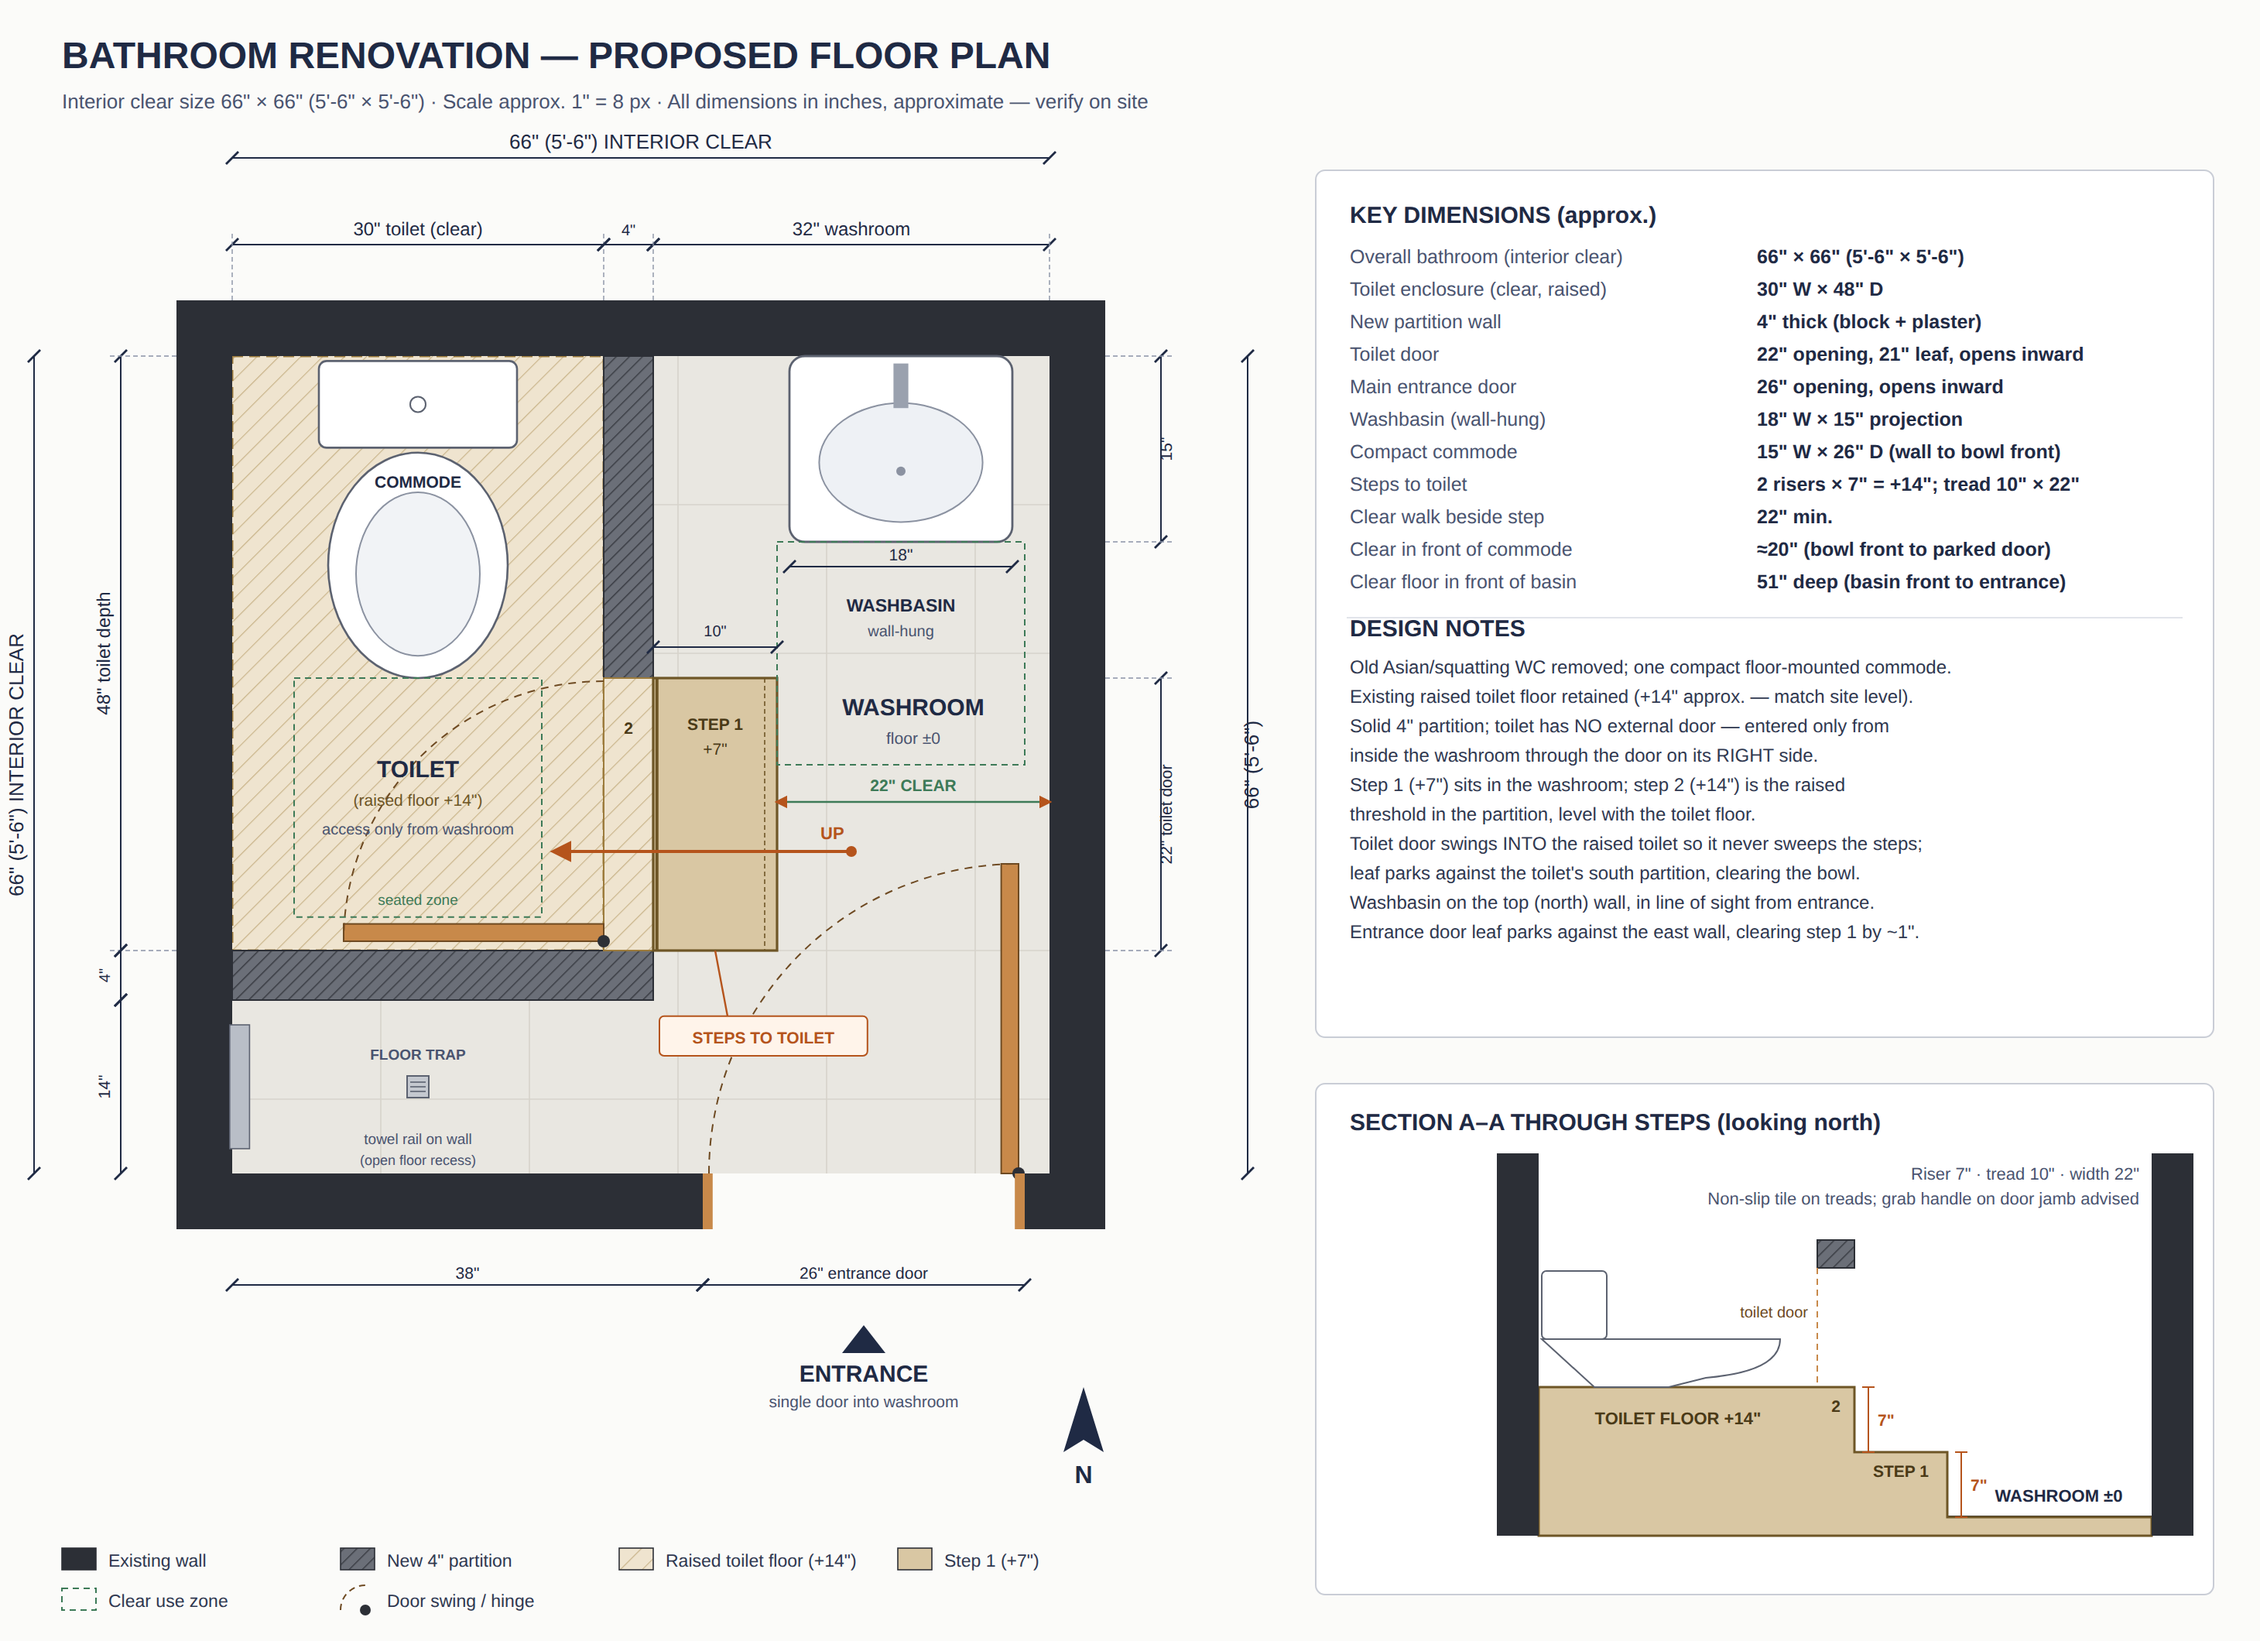
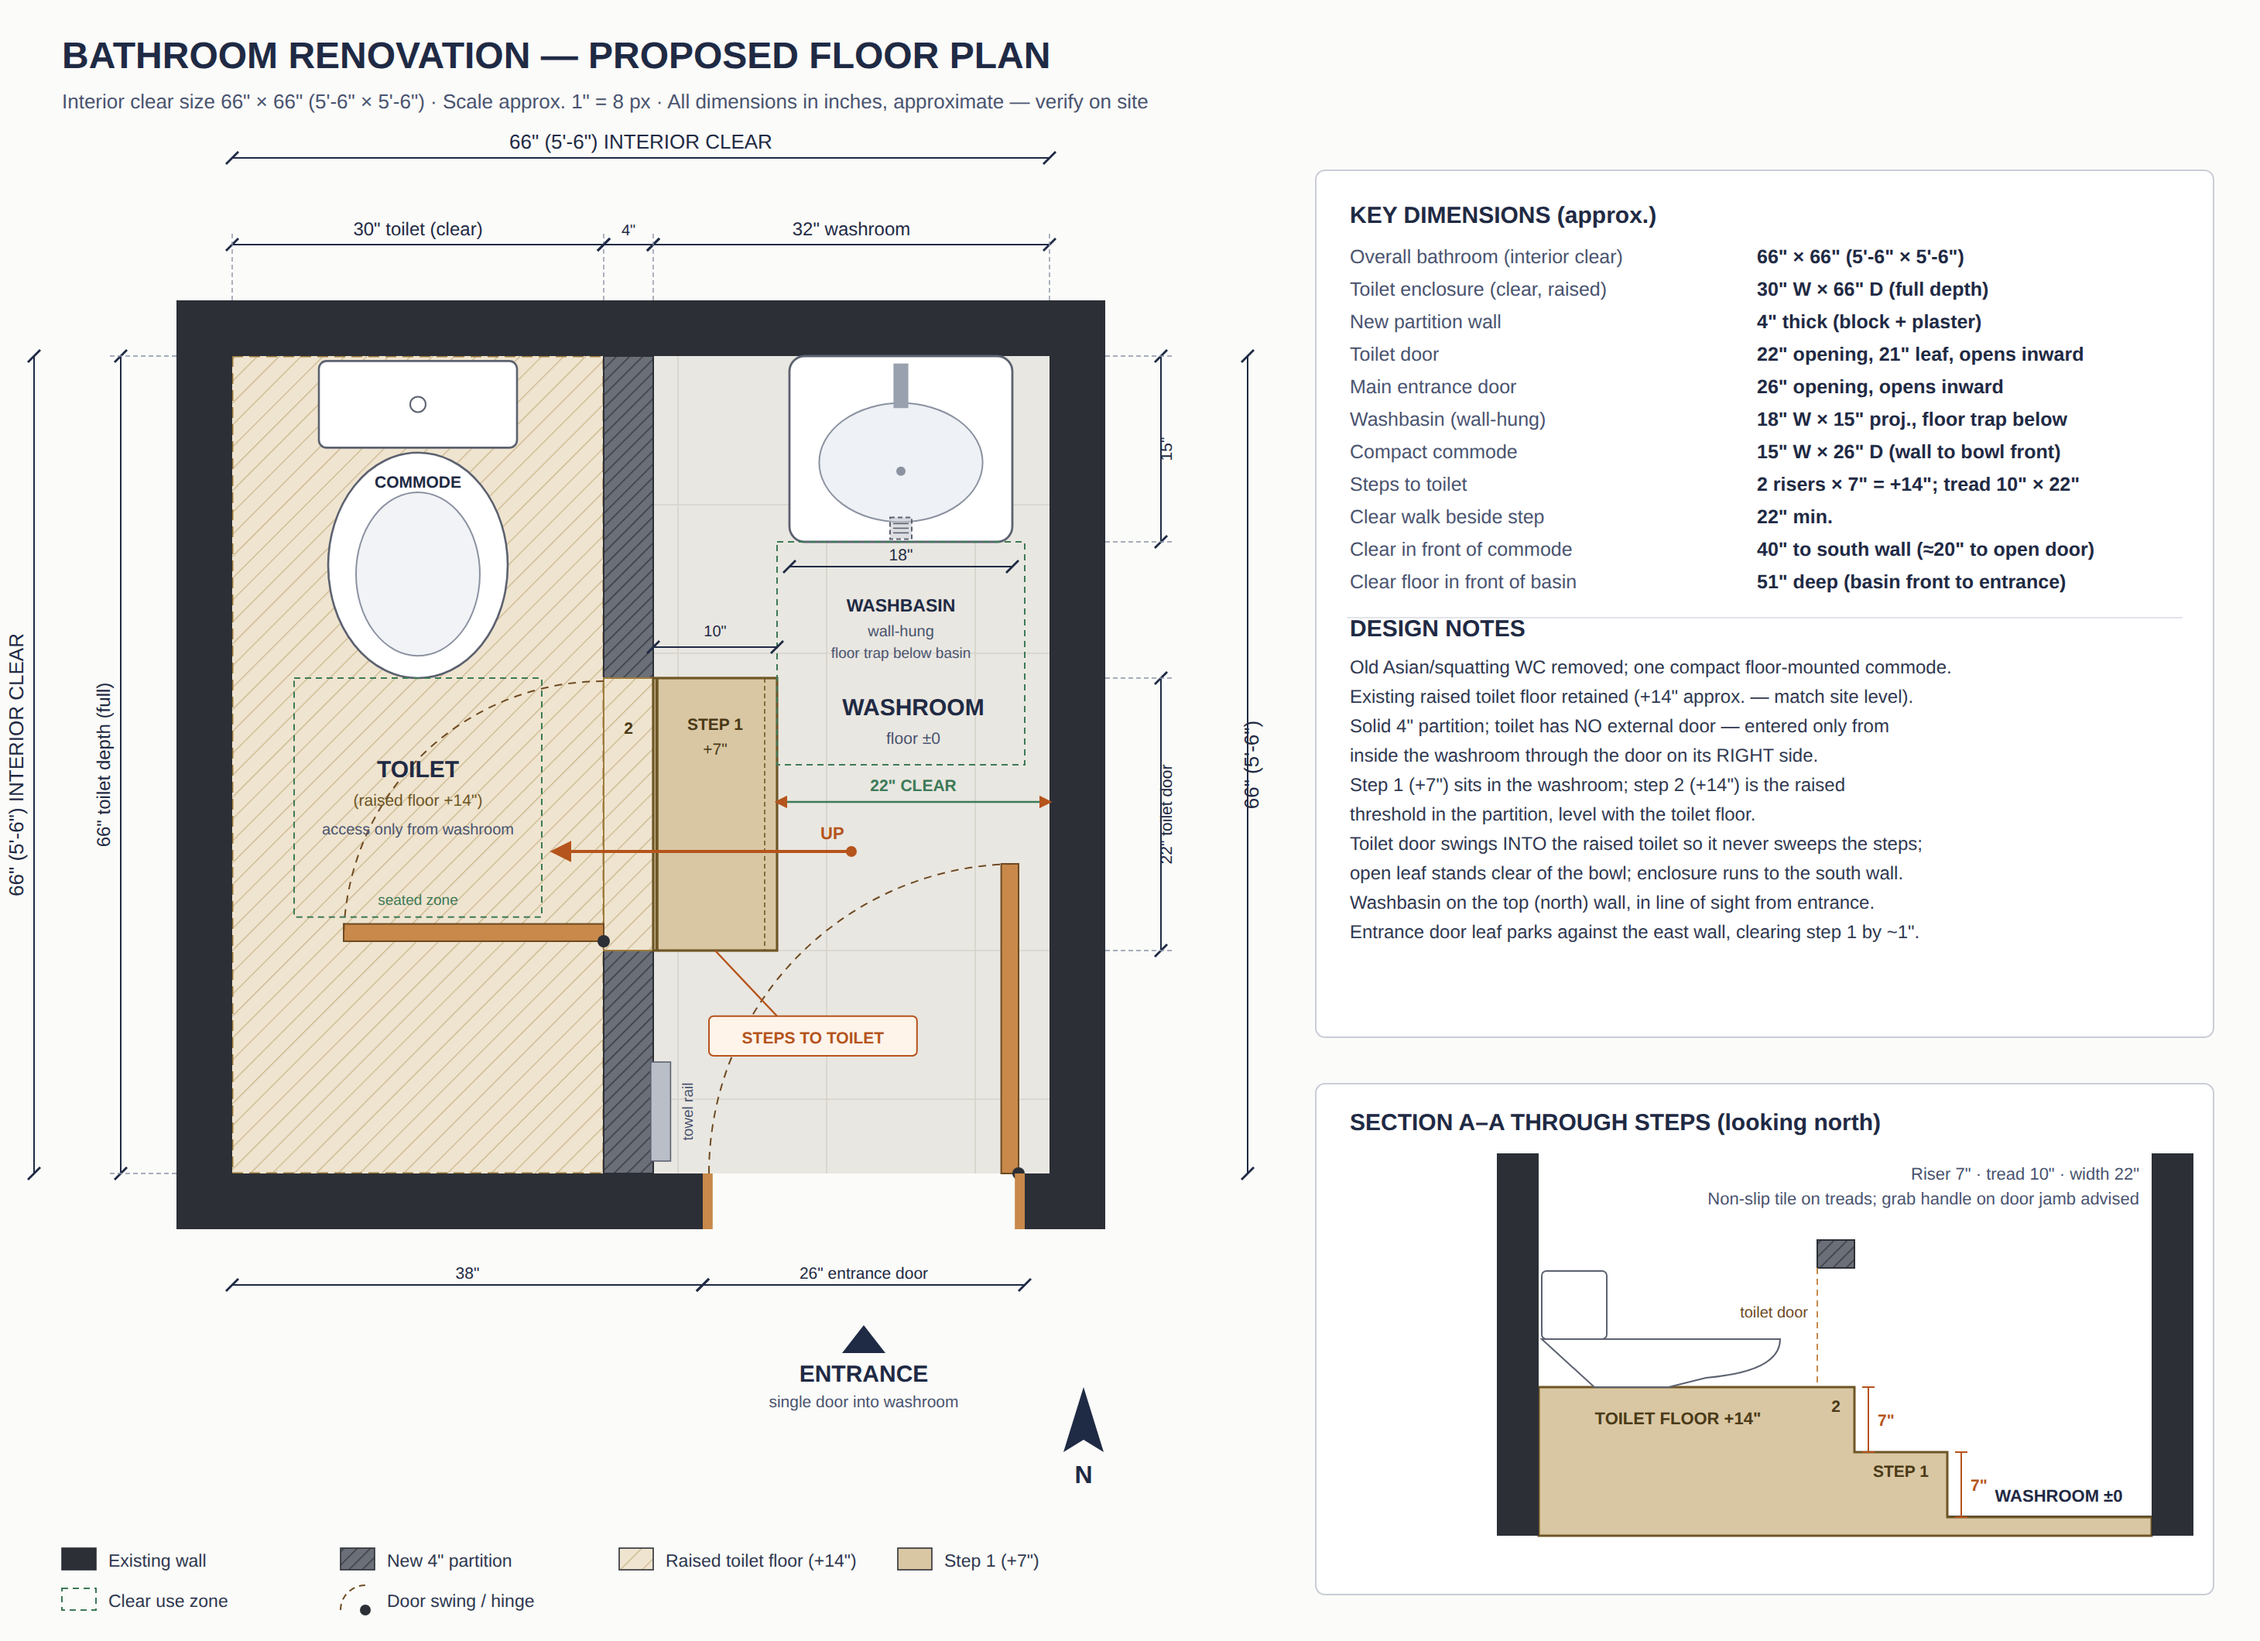
Extend toilet enclosure to south wall; move floor trap under basin
Partition now runs the full 66 in depth, so the raised toilet floor is
30 x 66 in and the old SW floor recess is gone. Floor trap sits below the
wall-hung basin; towel rail moves to the partition's washroom face.

Claude-Session: https://claude.ai/code/session_01BtCeAPLnTzEFmDXFFXHhhg

diff --git a/bathroom-floor-plan/generate_plan.py b/bathroom-floor-plan/generate_plan.py
@@ -11,8 +11,8 @@ EXT = 4.5          # existing outer wall thickness (drawn outside the 66" room)
 PART = 4.0         # new partition thickness
 ROOM = 66.0
 
-# Toilet enclosure (clear inside): x 0..30, y 0..48
-TW, TD = 30.0, 48.0
+# Toilet enclosure (clear inside): x 0..30, full depth to the south wall
+TW, TD = 30.0, 66.0
 # Toilet door opening in vertical partition (x 30..34)
 TDOOR_Y0, TDOOR_Y1 = 26.0, 48.0          # 22" opening
 TLEAF = 21.0
@@ -109,7 +109,7 @@ rect(EDOOR_X1, ROOM, ROOM, ROOM + EXT, **wall)               # south, right of d
 # ---------- new partition walls ----------
 pw = dict(fill="url(#partition)", stroke="#2c2f36", stroke_width=1)
 rect(TW, 0, TW + PART, TDOOR_Y0, **pw)                       # vertical, above toilet door
-rect(0, TD, TW + PART, TD + PART, **pw)                      # horizontal (south of toilet)
+rect(TW, TDOOR_Y1, TW + PART, ROOM, **pw)                    # vertical, below toilet door to south wall
 # raised threshold inside the toilet door opening (+14")
 rect(TW, TDOOR_Y0, TW + PART, TDOOR_Y1, fill="url(#raised)", stroke="#9c7b3c", stroke_width=1)
 
@@ -129,7 +129,7 @@ text(TW + PART / 2, 30.5, "2", size=10.5, weight="700", fill="#4a3a17")
 
 # ---------- toilet door (opens INTO the raised toilet, away from the steps) ----------
 hx, hy = TW, TDOOR_Y1 - 0.75
-# door leaf in open position (against south partition of toilet)
+# door leaf in open position (stands clear of the bowl)
 rect(hx - TLEAF, hy - 1.4, hx, hy, fill="#c8894a", stroke="#6e4a22", stroke_width=1)
 # swing arc from closed (vertical, in the opening) to open
 add(f'<path d="M {X(hx):.1f} {Y(hy - TLEAF):.1f} A {L(TLEAF):.1f} {L(TLEAF):.1f} 0 0 0 {X(hx - TLEAF):.1f} {Y(hy):.1f}" '
@@ -163,11 +163,12 @@ add(f'<circle cx="{X(ex):.1f}" cy="{Y(ey):.1f}" r="4" fill="#2c2f36"/>')
 rect(EDOOR_X0, ROOM, EDOOR_X0 + 0.8, ROOM + EXT, fill="#c8894a")
 rect(EDOOR_X1 - 0.8, ROOM, EDOOR_X1, ROOM + EXT, fill="#c8894a")
 
-# ---------- floor trap + towel rail in the SW recess ----------
-add(f'<rect x="{X(15)-7:.1f}" y="{Y(59)-7:.1f}" width="14" height="14" fill="#c4c8cf" stroke="#5c6270"/>')
+# ---------- floor trap (under the wall-hung basin) + towel rail on partition ----------
+TRX, TRY = (BAS_X0 + BAS_X1) / 2, 13.9
+add(f'<rect x="{X(TRX)-7:.1f}" y="{Y(TRY)-7:.1f}" width="14" height="14" fill="#c4c8cf" fill-opacity="0.6" stroke="#5c6270" stroke-dasharray="3 2"/>')
 for d in (-3, 0, 3):
-    add(f'<line x1="{X(15)-5:.1f}" y1="{Y(59)+d:.1f}" x2="{X(15)+5:.1f}" y2="{Y(59)+d:.1f}" stroke="#5c6270" stroke-width="0.8"/>')
-rect(-0.2, 54, 1.4, 64, fill="#b9bec7", stroke="#5c6270", stroke_width=0.8)   # towel rail on west wall
+    add(f'<line x1="{X(TRX)-5:.1f}" y1="{Y(TRY)+d:.1f}" x2="{X(TRX)+5:.1f}" y2="{Y(TRY)+d:.1f}" stroke="#5c6270" stroke-width="0.8"/>')
+rect(TW + PART - 0.2, 57, TW + PART + 1.4, 65, fill="#b9bec7", stroke="#5c6270", stroke_width=0.8)   # towel rail
 
 # ---------- labels ----------
 text(15, 34.0, "TOILET", size=15, weight="700")
@@ -179,14 +180,13 @@ text(54, 20.6, "WASHBASIN", size=11.5, weight="700")
 text(54, 22.6, 'wall-hung', size=10, fill="#4a5470")
 text(55, 29.0, "WASHROOM", size=15, weight="700")
 text(55, 31.3, "floor ±0", size=10.5, fill="#4a5470")
-text(15, 56.8, "FLOOR TRAP", size=9.5, weight="700", fill="#4a5470")
-text(15, 63.6, "towel rail on wall", size=9.5, fill="#4a5470")
-text(15, 65.3, "(open floor recess)", size=9, fill="#4a5470")
+text(54, 24.4, "floor trap below basin", size=9.5, fill="#4a5470")
+text(TW + PART + 3.2, 61, "towel rail", size=9.5, fill="#4a5470", rotate=-90)
 
 # steps label with leader
-add(f'<line x1="{X(39):.1f}" y1="{Y(48):.1f}" x2="{X(40):.1f}" y2="{Y(53.3):.1f}" stroke="#b5541c" stroke-width="1.2"/>')
-add(f'<rect x="{X(34.5):.1f}" y="{Y(53.3):.1f}" width="{L(16.8):.1f}" height="{L(3.2):.1f}" fill="#fff4ea" stroke="#b5541c" rx="3"/>')
-text(42.9, 55.5, "STEPS TO TOILET", size=10.5, weight="700", fill="#b5541c")
+add(f'<line x1="{X(39):.1f}" y1="{Y(48):.1f}" x2="{X(44):.1f}" y2="{Y(53.3):.1f}" stroke="#b5541c" stroke-width="1.2"/>')
+add(f'<rect x="{X(38.5):.1f}" y="{Y(53.3):.1f}" width="{L(16.8):.1f}" height="{L(3.2):.1f}" fill="#fff4ea" stroke="#b5541c" rx="3"/>')
+text(46.9, 55.5, "STEPS TO TOILET", size=10.5, weight="700", fill="#b5541c")
 
 # clear walking space
 add(f'<line x1="{X(STEP_X1):.1f}" y1="{Y(36):.1f}" x2="{X(ROOM):.1f}" y2="{Y(36):.1f}" stroke="#3d7a57" stroke-width="1.2" '
@@ -207,9 +207,7 @@ dim_h(0, ROOM, -16, '66" (5\'-6") INTERIOR CLEAR', size=13)
 # basin width
 dim_h(BAS_X0, BAS_X1, 17.0, '18"', size=10.5, off_label=-4)
 # left chain: 48 | 4 | 14
-dim_v(0, TD, -9, '48" toilet depth', ext_from=-EXT)
-dim_v(TD, TD + PART, -9, '4"', size=10, side=-1)
-dim_v(TD + PART, ROOM, -9, '14"', size=10.5)
+dim_v(0, TD, -9, '66" toilet depth (full)', ext_from=-EXT)
 dim_v(0, ROOM, -16, '66" (5\'-6") INTERIOR CLEAR', size=13)
 # right chain: toilet door + step location
 dim_v(0, BAS_D, ROOM + 9, '15"', size=10.5, ext_from=ROOM + EXT, side=1)
@@ -238,15 +236,15 @@ def ptxt(s, size=12.5, weight="normal", fill="#1f2a44", dy=20, indent=0):
 ptxt("KEY DIMENSIONS (approx.)", size=15, weight="700", dy=26)
 rows = [
     ("Overall bathroom (interior clear)", '66" × 66"  (5\'-6" × 5\'-6")'),
-    ("Toilet enclosure (clear, raised)", '30" W × 48" D'),
+    ("Toilet enclosure (clear, raised)", '30" W × 66" D (full depth)'),
     ("New partition wall", '4" thick (block + plaster)'),
     ("Toilet door", '22" opening, 21" leaf, opens inward'),
     ("Main entrance door", '26" opening, opens inward'),
-    ("Washbasin (wall-hung)", '18" W × 15" projection'),
+    ("Washbasin (wall-hung)", '18" W × 15" proj., floor trap below'),
     ("Compact commode", '15" W × 26" D (wall to bowl front)'),
     ("Steps to toilet", '2 risers × 7" = +14"; tread 10" × 22"'),
     ("Clear walk beside step", '22" min.'),
-    ("Clear in front of commode", '≈20" (bowl front to parked door)'),
+    ("Clear in front of commode", '40" to south wall (≈20" to open door)'),
     ("Clear floor in front of basin", '51" deep (basin front to entrance)'),
 ]
 for k, v in rows:
@@ -264,7 +262,7 @@ notes = [
     "Step 1 (+7\") sits in the washroom; step 2 (+14\") is the raised",
     "   threshold in the partition, level with the toilet floor.",
     "Toilet door swings INTO the raised toilet so it never sweeps the steps;",
-    "   leaf parks against the toilet's south partition, clearing the bowl.",
+    "   open leaf stands clear of the bowl; enclosure runs to the south wall.",
     "Washbasin on the top (north) wall, in line of sight from entrance.",
     "Entrance door leaf parks against the east wall, clearing step 1 by ~1\".",
 ]
